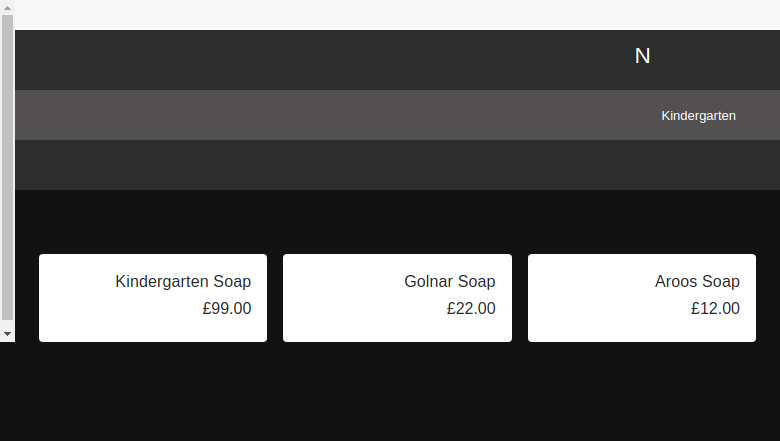
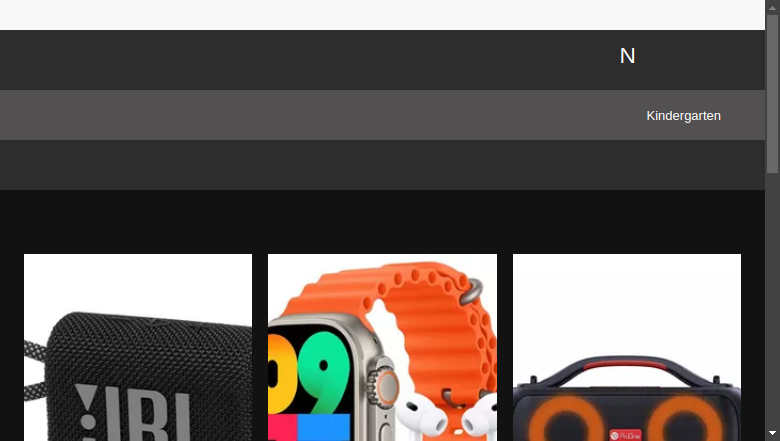
improved GraphQL Querry

diff --git a/frontend/pages/index.js b/frontend/pages/index.js
@@ -57,9 +57,17 @@ function DokoonHome({ posts, categories, data }) {
                   <Card className={classes.card} elevation={0}>
                     <CardMedia
                       className={classes.cardMedia}
-                      image={post.product_image?.[0]?.image || '/images/default.png'}
+                      image={
+                        post.product_image?.[0]?.image || '/images/default.png'
+                          ? post.product_image?.[0]?.image || '/images/default.png'
+                          : post.producImage?.[0]?.image || '/images/default.png'
+                      }
                       title={post.title}
-                      alt={post.product_image?.[0]?.alt_text || 'تصویر محصول'}
+                      alt={
+                        post.product_image?.[0]?.alt_text || 'تصویر محصول'
+                          ? post.product_image?.[0]?.alt_text || 'تصویر محصول'
+                          : post.productImage?.[0]?.altText || 'تصویر محصول'
+                      }
                     />
                     <CardContent>
                       <Typography gutterBottom component="p">
@@ -94,13 +102,20 @@ export async function getStaticProps() {
         query: gql`
           query main_index {
             mainIndex {
-              title
               description
-              regularPrice
+              id
               slug
+              title
+              productImage {
+                id
+                image
+                altText
+              }
+              regularPrice
             }
           }
         `,
+        // GraphQL Querry
       })
       .catch((err) => {
         console.error('Error making query:', err);

diff --git a/store/schema.py b/store/schema.py
@@ -2,12 +2,25 @@ import graphene
 from graphene_django import DjangoObjectType
 
 from .models import DokoonProduct as product
+from .models import DokoonProductImage as ProductImage
+
+
+class ProductImageType(DjangoObjectType):
+    class Meta:
+        model = ProductImage
+        field = ('id', 'image', 'alt_text')
+
+    def resolve_image(self, info):
+        if self.image:
+            self.image = info.context.build_absolute_uri(self.image.url)
+        return self.image
 
 
 class ProductType(DjangoObjectType):
     class Meta:
         model = product
-        fields = ('id', 'title', 'description', 'regular_price', 'slug')
+        fields = ('id', 'title', 'description',
+                  'regular_price', 'slug', 'product_image')
 
 
 class Query(graphene.ObjectType):
